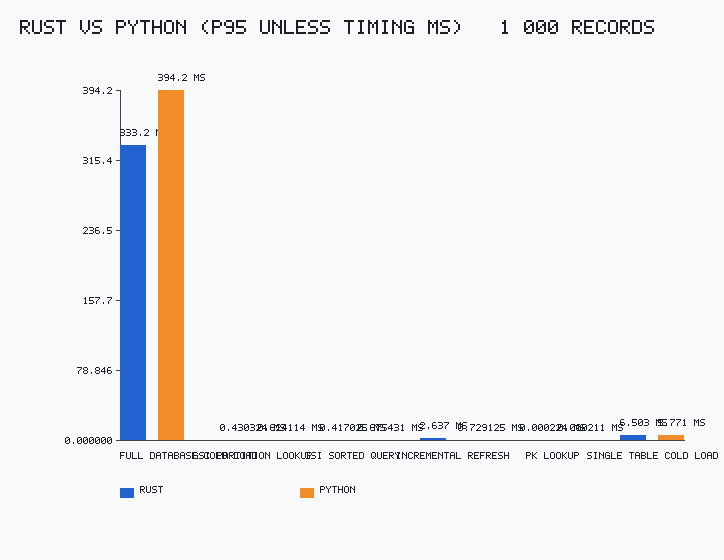
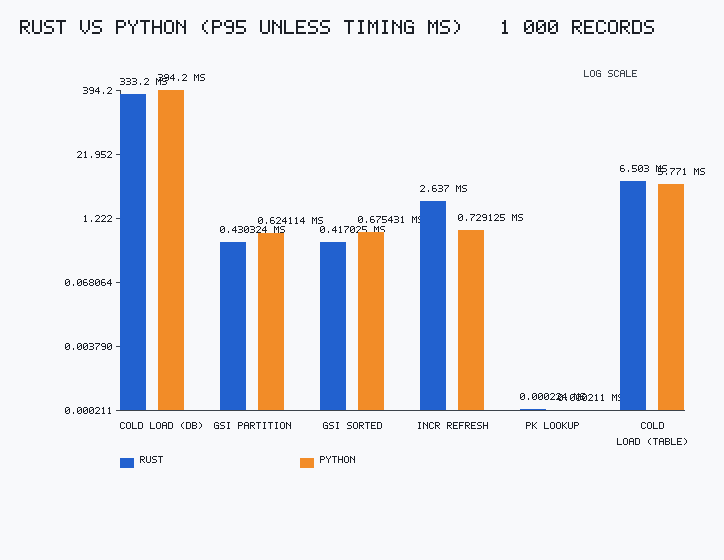
chore: improve bench comparison readability

diff --git a/features/steps/benchmark_steps.py b/features/steps/benchmark_steps.py
@@ -486,7 +486,7 @@ def _render_grouped_bar_chart(  # pragma: no cover - exercised via tools/bench_c
     margin_left = 120
     margin_right = 40
     margin_top = 90
-    margin_bottom = 120
+    margin_bottom = 150  # extra room for wrapped x labels
     bar_width = 26
     bar_gap = 12
     group_gap = 36
@@ -541,14 +541,30 @@ def _render_grouped_bar_chart(  # pragma: no cover - exercised via tools/bench_c
     cursor_x = margin_left
     for cat in categories:
         cat_center = cursor_x + group_width // 2
+        parts = cat.split(" ")
+        line1 = cat
+        line2 = ""
+        if len(cat) > 14 and len(parts) > 1:
+            mid = len(parts) // 2
+            line1 = " ".join(parts[:mid])
+            line2 = " ".join(parts[mid:])
         _draw_text(
             rows,
-            max(cat_center - _text_width(cat, 1) // 2, margin_left),
+            max(cat_center - _text_width(line1, 1) // 2, margin_left),
             plot_bottom + 12,
-            cat,
+            line1,
             text_color,
             scale=1,
         )
+        if line2:
+            _draw_text(
+                rows,
+                max(cat_center - _text_width(line2, 1) // 2, margin_left),
+                plot_bottom + 28,
+                line2,
+                text_color,
+                scale=1,
+            )
         for idx, label in enumerate(series_labels):
             color = palette[idx % len(palette)]
             value = data.get(cat, {}).get(label, 0.0)
